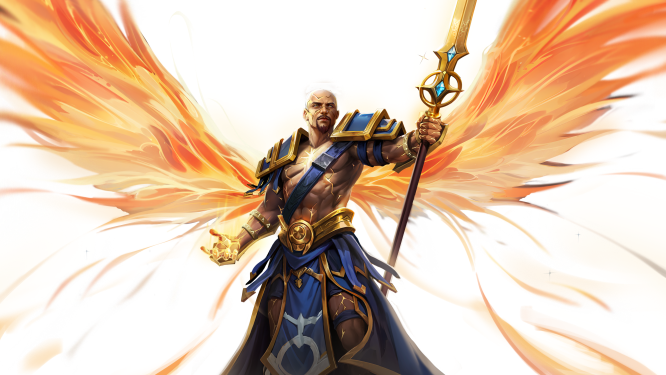
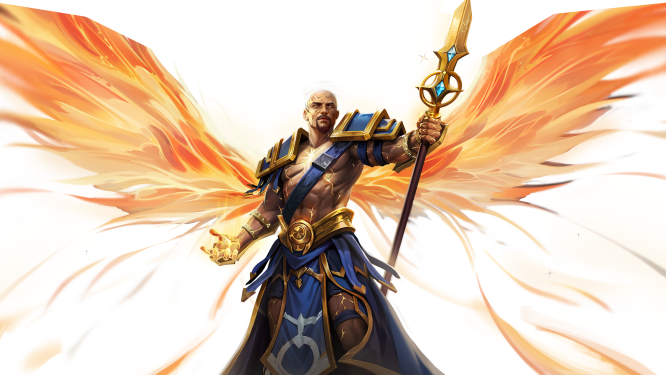
Trim god images, adjust colors

Changed region(s): [[0.7207, 0.0, 1.0, 0.1467], [0.0, 0.0, 0.2402, 0.1467], [0.6607, 0.0, 0.7207, 0.0293]]

diff --git a/index.html b/index.html
@@ -65,7 +65,7 @@
                 image: 'images/gods/magic.png'
             },
             light: {
-                gradient: 'linear-gradient(0deg, rgba(190,255,19,1) 0%, rgba(140,181,0,1) 11%, rgba(7,0,53,0) 45%, rgba(0,0,0,0) 100%)',
+                gradient: 'linear-gradient(0deg, rgba(100,155,19,1) 0%, rgba(140,181,0,1) 11%, rgba(7,0,53,0) 45%, rgba(0,0,0,0) 100%)',
                 image: 'images/gods/light.png'
             }
         };

diff --git a/styles.css b/styles.css
@@ -7,7 +7,7 @@ body {
 
     background-image: url('images/background.jpg');
     background-size: cover;
-    background-position-y: 24%;
+    background-position-y: 80%;
     background-repeat: no-repeat;
     font-family: Verdana, Geneva, Tahoma, sans-serif;
     color: #FFFFFF;
